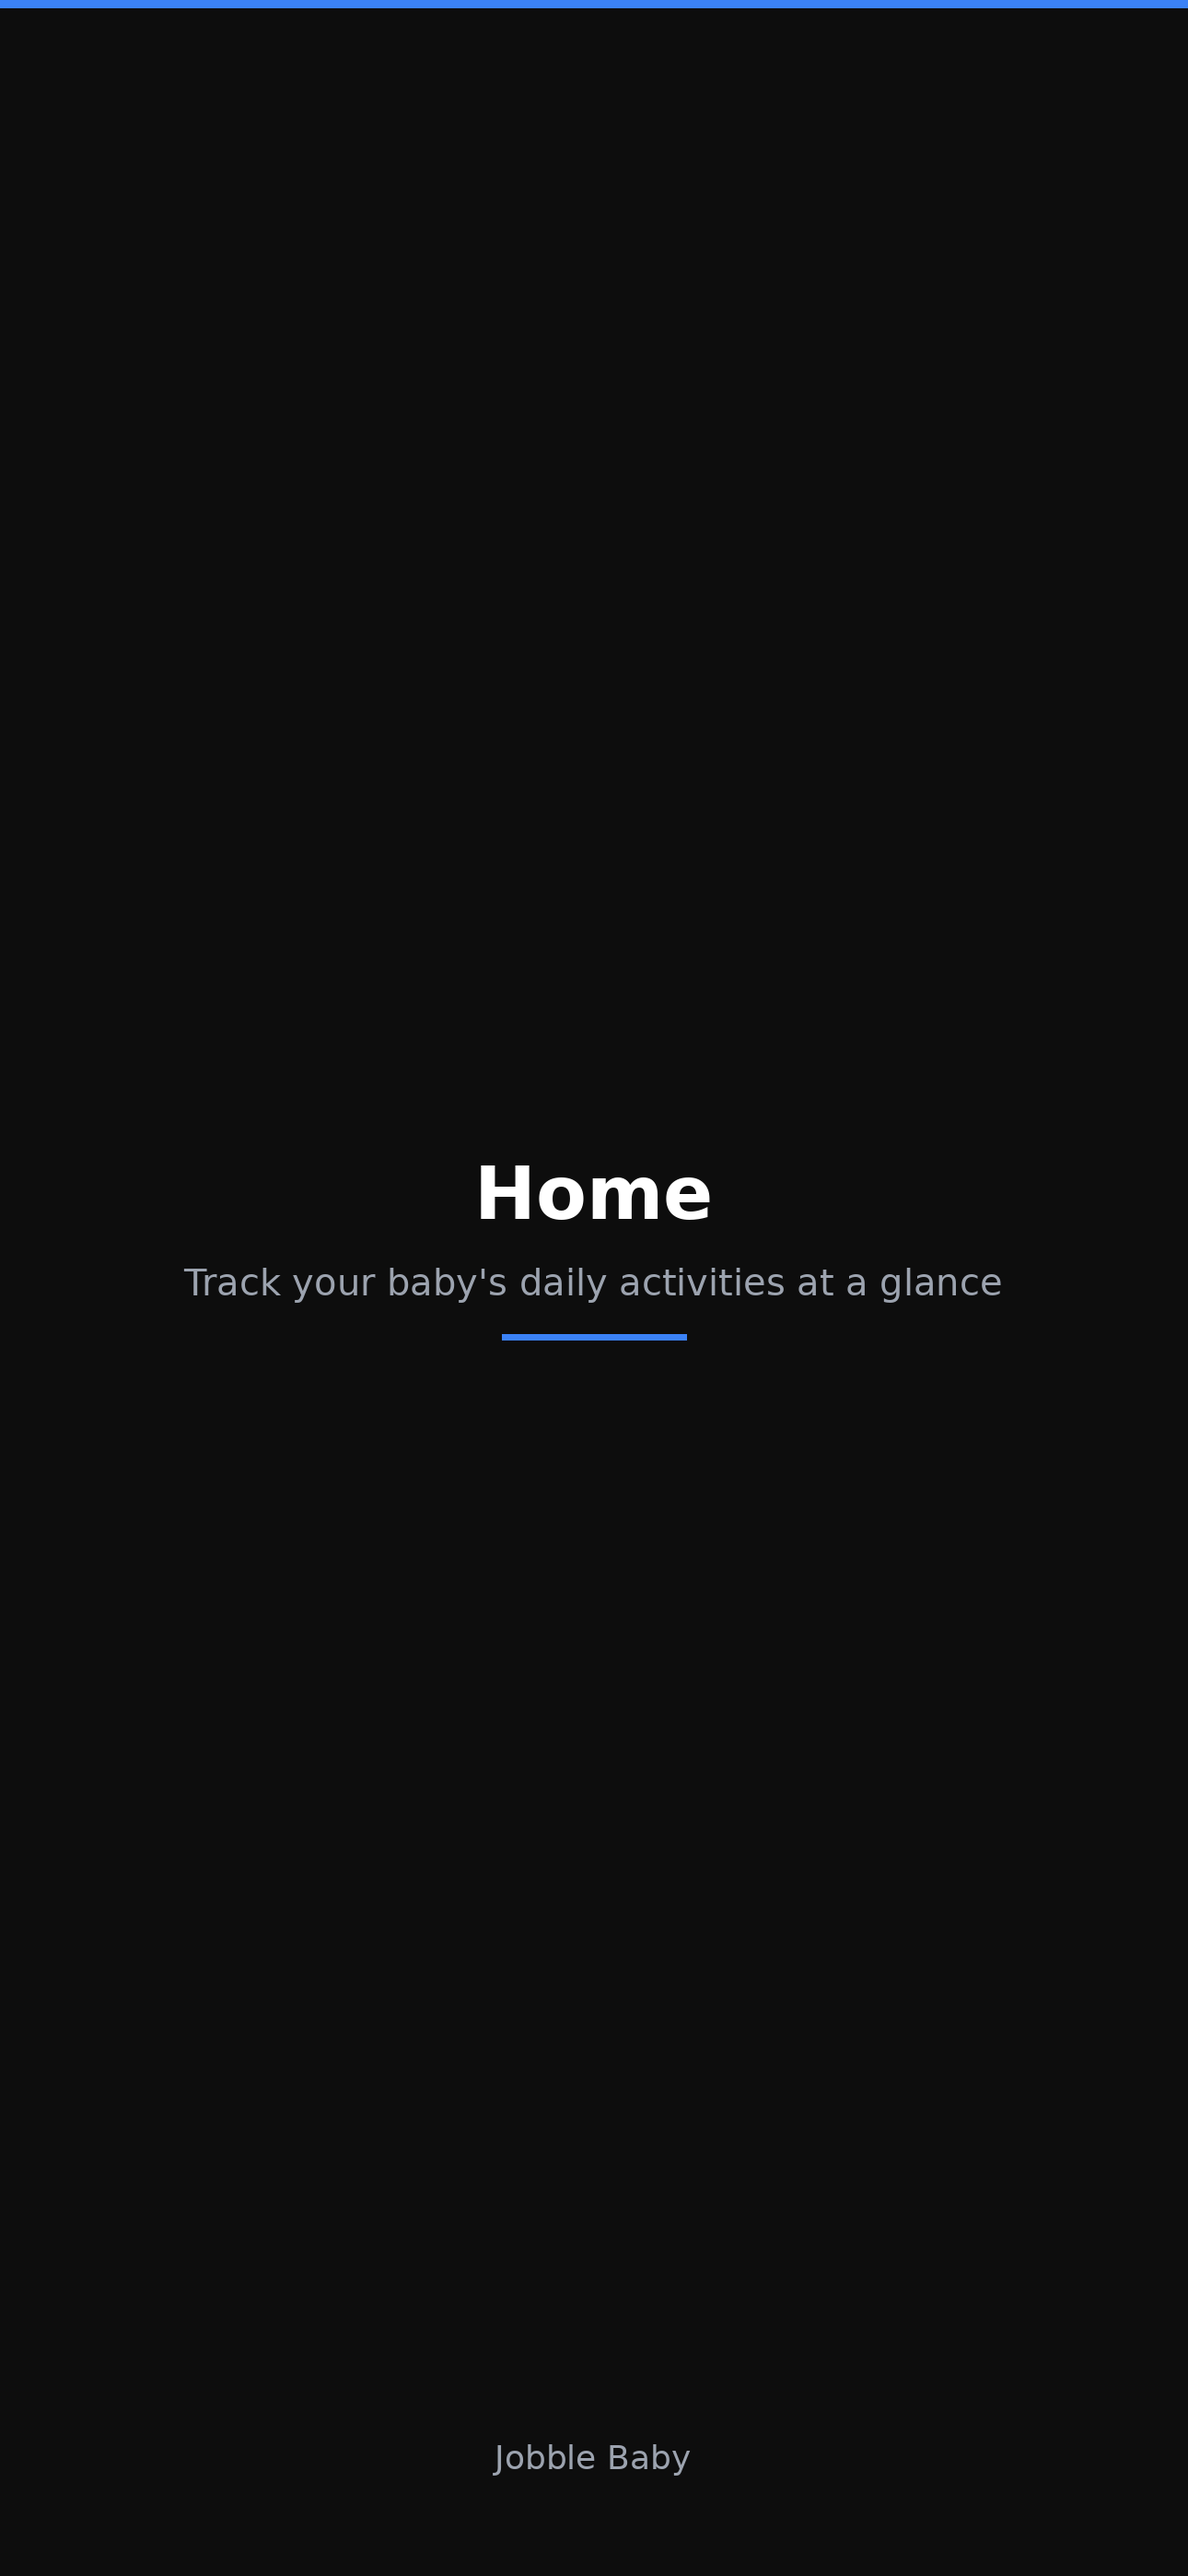
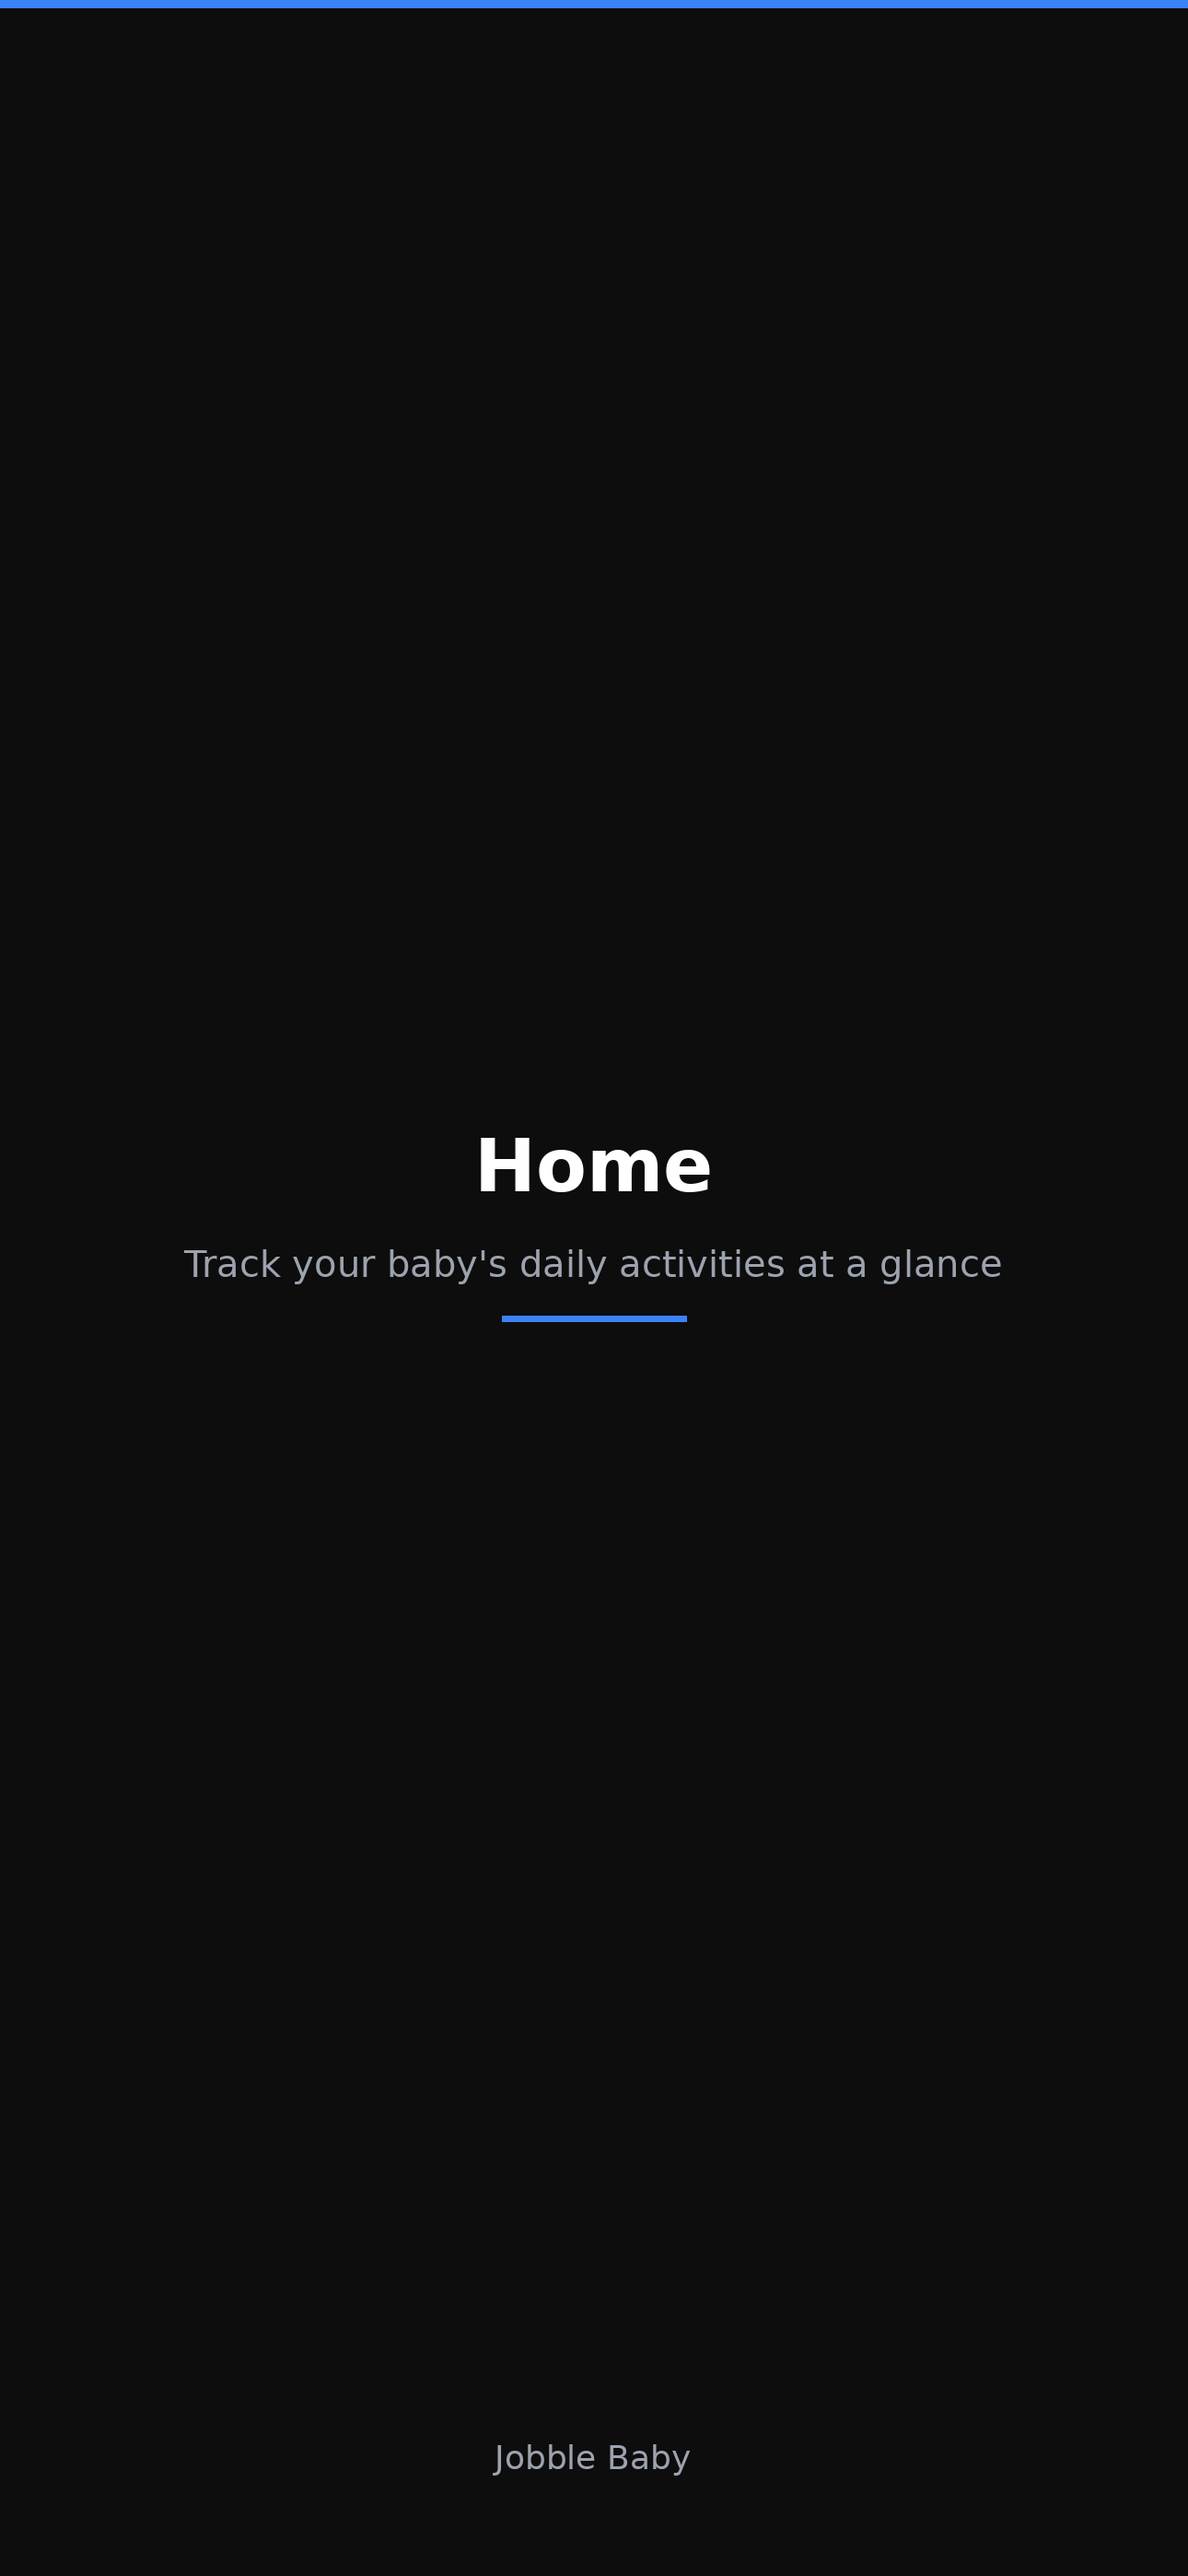
feat(store): generate all 17 App Store + Play Store screenshots (34 total) - Updated TABS list: 01-home through 17-hero - All iPhone 1290x2796, Android 1080x1920 - Dark theme, consistent branding

diff --git a/store/generate-screenshots.py b/store/generate-screenshots.py
@@ -12,13 +12,25 @@ PLAY_STORE = (1080, 1920)
 
 TABS = [
     ("01-home", "Home", "Track your baby's daily activities at a glance"),
-    ("02-tracking", "Tracking", "Log feeding, diaper changes, sleep& more"),
-    ("03-schedule", "Schedule", "Manage routines and set reminders"),
-    ("04-products", "Products", "Discover baby products and reviews"),
+    ("02-tracking", "Tracking", "Log feeding, diaper changes, sleep & more"),
+    ("03-schedule", "Schedule", "Manage routines and set smart reminders"),
+    ("04-products", "Products", "Discover baby products and honest reviews"),
     ("05-growth", "Growth", "Monitor growth charts and milestones"),
-    ("06-allergens", "Allergens", "Track allergies and sensitivities"),
-    ("07-profile", "Profile", "Manage baby profile and settings"),
+    ("06-milestones", "Milestones", "Neurodevelopmental brain builder alerts"),
+    ("07-allergens", "Allergens", "Track allergies and sensitivities"),
+    ("08-sleep-training", "Sleep Training", "Build healthy sleep habits early"),
+    ("09-circadian", "Circadian", "Align baby rhythm with natural light cues"),
+    ("10-milk-prep", "Milk Prep", "Streamlined formula and breast prep"),
+    ("11-monitor-correlation", "Monitor", "Correlate stats with parent fatigue"),
+    ("12-shift-handoff", "Shift Handoff", "Seamless caregiver shift transitions"),
+    ("13-stress-cascade", "Stress Cascade", "Track stress patterns across caregivers"),
+    ("14-teething", "Teething", "Monitor teething pain and remedies"),
+    ("15-doctor-visit", "Doctor Visit", "Prep questions and track medical visits"),
+    ("16-profile", "Profile", "Manage baby profile and settings"),
+    ("17-hero", "Jobble Baby", "Your all-in-one parenting companion"),
 ]
+
+APP_NAME = "Jobble Baby"
 
 
 def make_screenshot(size, name, desc, out):
@@ -30,49 +42,65 @@ def make_screenshot(size, name, desc, out):
         title_font = ImageFont.truetype("/usr/share/fonts/truetype/dejavu/DejaVuSans-Bold.ttf", 80)
         desc_font = ImageFont.truetype("/usr/share/fonts/truetype/dejavu/DejaVuSans.ttf", 40)
         app_font = ImageFont.truetype("/usr/share/fonts/truetype/dejavu/DejaVuSans.ttf", 36)
+        label_font = ImageFont.truetype("/usr/share/fonts/truetype/dejavu/DejaVuSans.ttf", 28)
     except Exception:
         title_font = ImageFont.load_default()
         desc_font = ImageFont.load_default()
         app_font = ImageFont.load_default()
+        label_font = ImageFont.load_default()
 
+    # Top accent bar
     draw.rectangle([(0, 0), (w, 8)], fill=ACCENT)
 
+    # Title text centered
     tb = draw.textbbox((0, 0), name, font=title_font)
     tw = tb[2] - tb[0]
-    draw.text(((w - tw) // 2, h // 2 - 150), name, font=title_font, fill=WHITE)
+    draw.text(((w - tw) // 2, h // 2 - 180), name, font=title_font, fill=WHITE)
 
+    # Description text centered
     db = draw.textbbox((0, 0), desc, font=desc_font)
     dw = db[2] - db[0]
-    draw.text(((w - dw) // 2, h // 2 - 30), desc, font=desc_font, fill=GRAY)
+    # Truncate if too long
+    if dw > w - 100:
+        desc = desc[:40] + "..."
+        db = draw.textbbox((0, 0), desc, font=desc_font)
+        dw = db[2] - db[0]
+    draw.text(((w - dw) // 2, h // 2 - 50), desc, font=desc_font, fill=GRAY)
 
+    # Center accent line
     lw = 200
     lx = (w - lw) // 2
-    draw.rectangle([(lx, h // 2 + 50), (lx + lw, h // 2 + 56)], fill=ACCENT)
+    draw.rectangle([(lx, h // 2 + 30), (lx + lw, h // 2 + 36)], fill=ACCENT)
 
-    ab = draw.textbbox((0, 0), "Jobble Baby", font=app_font)
+    # App label at bottom
+    ab = draw.textbbox((0, 0), APP_NAME, font=app_font)
     aw = ab[2] - ab[0]
-    draw.text(((w - aw) // 2, h - 150), "Jobble Baby", font=app_font, fill=GRAY)
+    draw.text(((w - aw) // 2, h - 150), APP_NAME, font=app_font, fill=GRAY)
 
     img.save(out, "PNG")
-    print(f"Created: {out}")
+    size_kb = os.path.getsize(out) // 1024
+    print(f"Created: {out} ({size_kb}KB)")
 
 
 def main():
     base = os.path.dirname(os.path.abspath(__file__))
+    print(f"Base: {base}")
 
     app_dir = os.path.join(base, "app-store-screenshots")
     os.makedirs(app_dir, exist_ok=True)
-    print("Generating App Store screenshots (1290x2796)...")
+    print(f"\nGenerating App Store screenshots ({APP_STORE[0]}x{APP_STORE[1]})...")
     for fname, name, desc in TABS:
-        make_screenshot(APP_STORE, name, desc, os.path.join(app_dir, f"{fname}.png"))
+        out = os.path.join(app_dir, f"{fname}.png")
+        make_screenshot(APP_STORE, name, desc, out)
 
     play_dir = os.path.join(base, "play-store-screenshots")
     os.makedirs(play_dir, exist_ok=True)
-    print("\nGenerating Play Store screenshots (1080x1920)...")
+    print(f"\nGenerating Play Store screenshots ({PLAY_STORE[0]}x{PLAY_STORE[1]})...")
     for fname, name, desc in TABS:
-        make_screenshot(PLAY_STORE, name, desc, os.path.join(play_dir, f"{fname}.png"))
+        out = os.path.join(play_dir, f"{fname}.png")
+        make_screenshot(PLAY_STORE, name, desc, out)
 
-    print("\nDone! All screenshots generated.")
+    print(f"\nDone! All {len(TABS)*2} screenshots generated.")
 
 
 if __name__ == "__main__":
